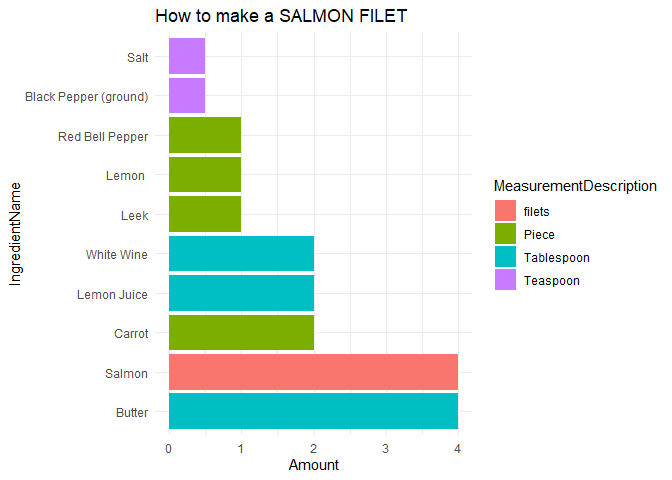
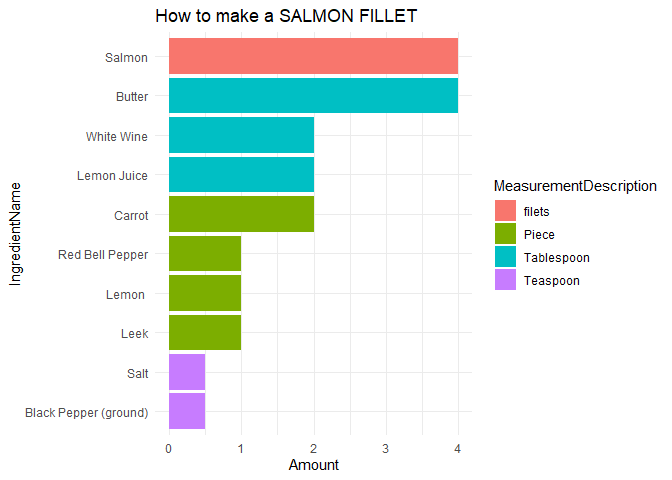
Commiting

diff --git a/Salmon_Recipe.md b/Salmon_Recipe.md
@@ -46,11 +46,11 @@ select_res <- dbFetch(select_q)
 ```
 
 ``` r
-select_res$IngredientName <- reorder(select_res$IngredientName, select_res$Amount, decreasing = TRUE)
+select_res$IngredientName <- reorder(select_res$IngredientName, select_res$Amount, decreasing = FALSE)
 library(ggplot2)
 
 ggplot(select_res, aes(x = IngredientName, y = Amount, fill = MeasurementDescription)) + 
-         geom_bar(stat = "identity") + labs(title = "How to make a SALMON FILET") +
+         geom_bar(stat = "identity") + labs(title = "How to make a SALMON FILLET") +
          theme_minimal() +
   coord_flip()
 ```
